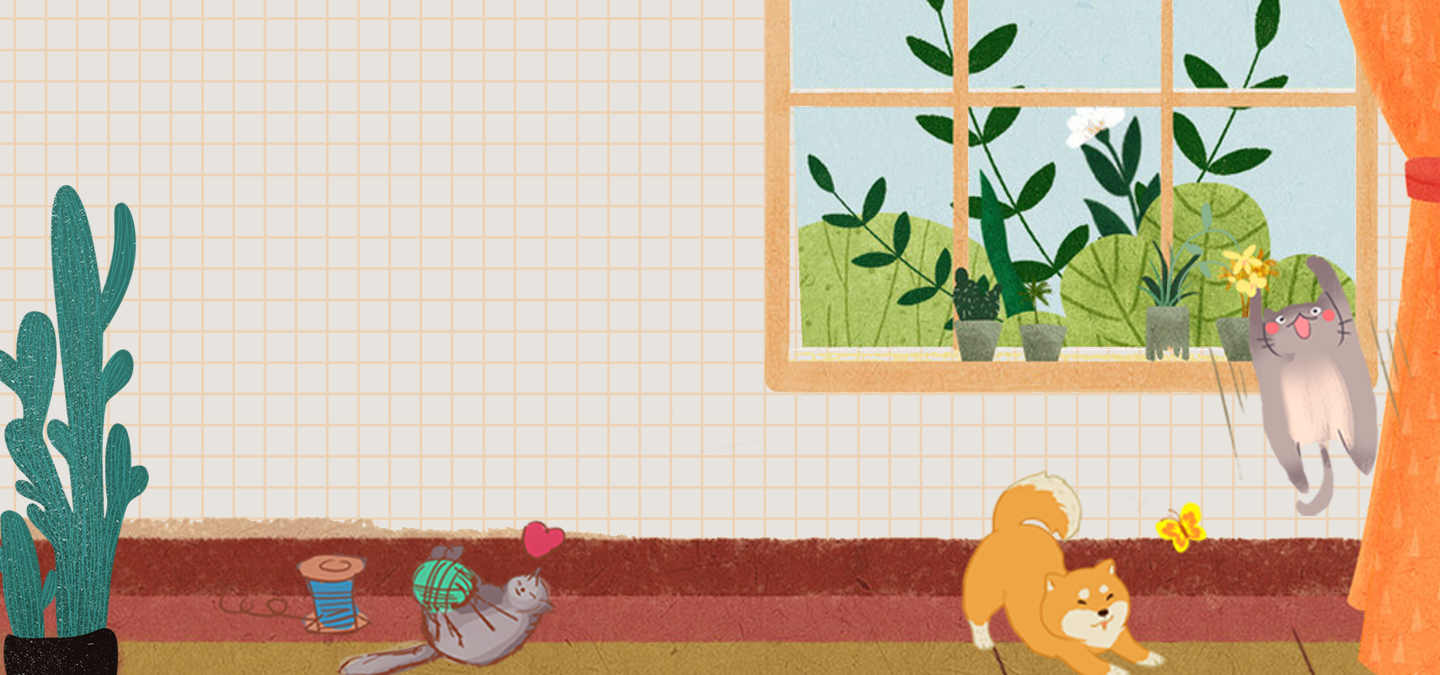
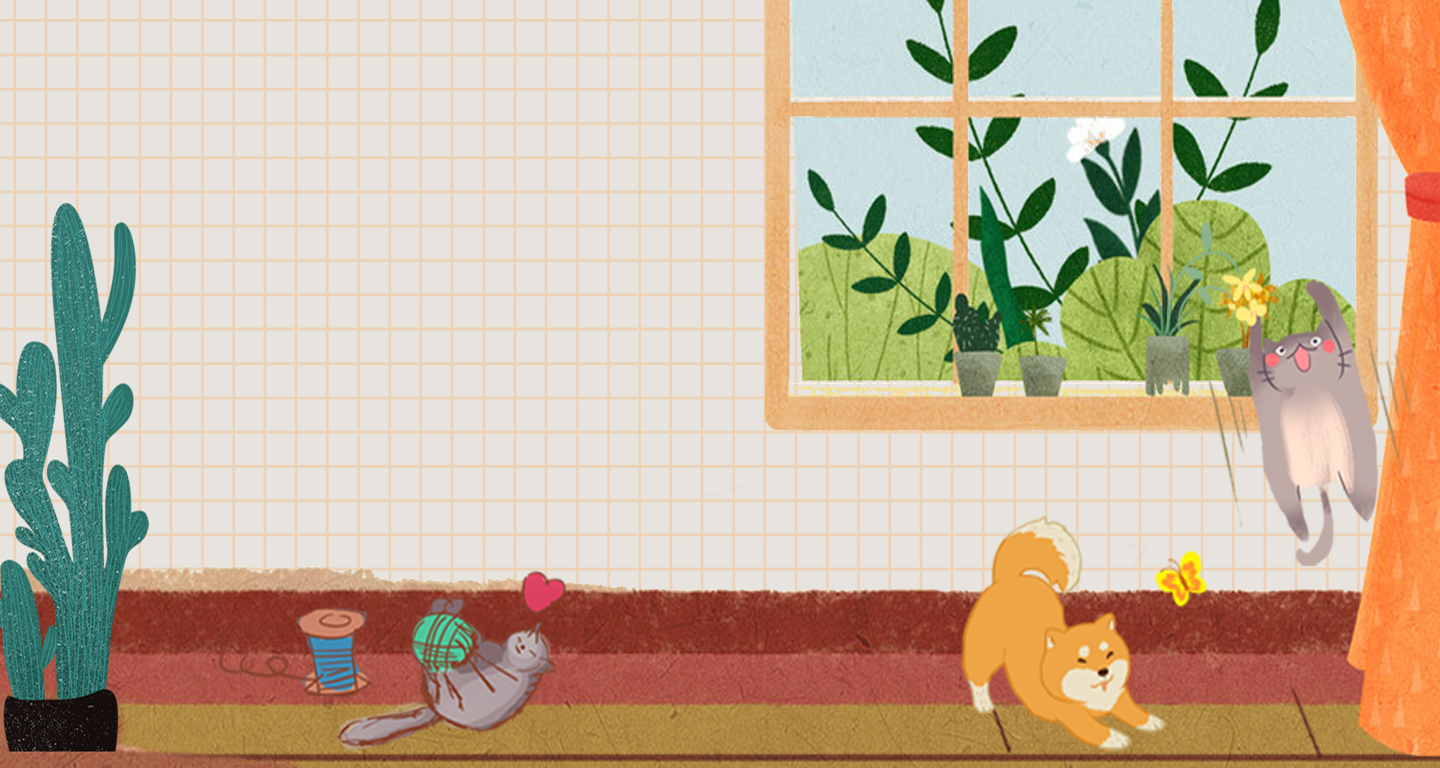
1

diff --git a/src/components/home.vue b/src/components/home.vue
@@ -124,7 +124,7 @@
                 <div class="hotbox">
                     <div @click="home_gotolog(hot.hotid)" v-for="(hot,index) in hotlist" :key="hot.key" class="hotitem">
                         <span class="hotid">{{index+1}}</span>
-                        <img  class="hotpic" :src="hot.hotpic">
+                        <img  class="hotpic" :src="hot.hotpi">
                         <div class="hottextbox">
                             <div class='hottext'>{{hot.hottext}}</div>
                         </div>
@@ -178,54 +178,55 @@ export default {
             hotlist:[
                 {
                     hotid:1,
-                    hotpic:'https://fuss10.elemecdn.com/0/6f/e35ff375812e6b0020b6b4e8f9583jpeg.jpeg',
-                    hottext:'示例文字示例文字示例文字示例文字示例文字示例文字示例文字示例文字示例文字示例文字示例文字示例文字示例文字示例文字示例文字示例文字示例文字示例文'
+                    hotpic:"",
+                    hotpic:null
                 },
                 {
                     hotid:2,
-                    hotpic:'https://fuss10.elemecdn.com/8/27/f01c15bb73e1ef3793e64e6b7bbccjpeg.jpeg',
-                    hottext:'文字示例文字示例文字示例文字示例文字示例文'
+                    hotpic:null,
+                    hottext:""
                 },
                 {
-                    hotid:1,
-                    hotpic:  'https://fuss10.elemecdn.com/1/8e/aeffeb4de74e2fde4bd74fc7b4486jpeg.jpeg',
-                    hottext:'字例文字示例文字示例文'
+                    hotid:3,
+                    hotpic:null,
+                    hottext:""
                 },
                 {
-                    hotid:2,
-                    hotpic: 'https://fuss10.elemecdn.com/a/3f/3302e58f9a181d2509f3dc0fa68b0jpeg.jpeg',
-                    hottext:'示例文字示例文字示例文字示例文字示例文字示例文字示例文字示例文字示例文字示例文字示例文字示例文字示例文字示例文字示例文字示例文字示例文字示例文'
+                    hotid:4,
+                    hotpic:null,
+                    hottext:""
                 },
                 {
-                    hotid:1,
-                    hotpic:'https://fuss10.elemecdn.com/0/6f/e35ff375812e6b0020b6b4e8f9583jpeg.jpeg',
-                    hottext:'示例文字示例文字示例文字示例文字示例文字示例文字示例文字示例文字示例文字示例文字示例文字示例文字示例文字示例文字示例文字示例文字示例文字示例文'
+                    hotid:5,
+                    hotpic:null,
+                    hottext:""
                 },
                 {
-                    hotid:1,
-                    hotpic:'https://fuss10.elemecdn.com/1/34/19aa98b1fcb2781c4fba33d850549jpeg.jpeg',
-                    hottext:'示例文字示例文字示例文字示例文字示例文字示例文字示例文字示例文字示例文字示例文字示例文字示例文字示例文字示例文字示例文字示例文字示例文字示例文'
+                    hotid:6,
+                    hotpic:null,
+                    hottext:""
                 },
                 {
-                    hotid:2,
-                    hotpic: 'https://fuss10.elemecdn.com/0/6f/e35ff375812e6b0020b6b4e8f9583jpeg.jpeg',
-                    hottext:'示例文字示例文字示例文字示例文字示例文字示例文字示例文字示例文字示例文字示例文字示例文字示例文字示例文字示例文字示例文字示例文字示例文字示例文'
+                    hotid:7,
+                    hotpic:null,
+                    hottext:""
                 },
                 {
-                    hotid:1,
-                    hotpic:'https://fuss10.elemecdn.com/9/bb/e27858e973f5d7d3904835f46abbdjpeg.jpeg',
-                    hottext:'示例文字示例文字示例文字示例文字示例文字示例文字示例文字示例文字示例文字示例文字示例文字示例文字示例文字示例文字示例文字示例文字示例文字示例文'
-                },
-                 {
-                    hotid:2,
-                    hotpic:'https://fuss10.elemecdn.com/d/e6/c4d93a3805b3ce3f323f7974e6f78jpeg.jpeg',
-                    hottext:'示例文字示例文字示例文字示例文字示例文字示例文字示例文字示例文字示例文字示例文字示例文字示例文字示例文字示例文字示例文字示例文字示例文字示例文'
+                    hotid:8,
+                    hotpic:null,
+                    hottext:""
                 },
                 {
-                    hotid:1,
-                    hotpic:'https://fuss10.elemecdn.com/3/28/bbf893f792f03a54408b3b7a7ebf0jpeg.jpeg',
-                    hottext:'示例文字示例文字示例文字示例文字示例文字示例文字示例文字示例文字示例文字示例文字示例文字示例文字示例文字示例文字示例文字示例文字示例文字示例文'
+                    hotid:9,
+                    hotpic:null,
+                    hottext:""
                 },
+                {
+                    hotid:10,
+                    hottext:"",
+                    hotpic:null,
+                },
+                
             ],
             tuijianlist_pic:[
                 {
@@ -302,6 +303,7 @@ export default {
             const _this=this
             axios.get('http://localhost:8000/gethotshare',{        
             }).then(res => {
+                const _this=this
                 console.log(res.data)
                 var i
                 for(i=0;i<10;i++){
@@ -312,7 +314,7 @@ export default {
                         jlid:res.data[i].jlid
                     }
                     }).then(res => {
-
+                        _this.hotlist[i].hotpic=res.data[0].zp
                     }).catch(err => {
                         console.log(err)
                     })

diff --git a/src/components/petlog.vue b/src/components/petlog.vue
@@ -1,8 +1,8 @@
 <template>
     <div class="logbox">
         <!-- 首栏 -->
-        <v-top></v-top>
-        <div class="logmainbox"  :style ="pic">
+        <v-top class="top"></v-top>
+        <div class="logmainbox"  >
             <div class="logcard">
                 <div class="loguserinfobox">
                     <img @click="loggotohome" class="userimag" :src="messageinform.userUrl">
@@ -45,11 +45,6 @@ export default {
         return{
             id:0,
             guanzhu:"关注",
-            pic: {
-                backgroundImage: "url(" + require('../assets/img/petshome.png') + ")",
-                width: '1440px',
-                height: '675px',
-            },
             messageinform:{
                 messagenum:0,
                 username:"",
@@ -63,6 +58,7 @@ export default {
                 isstar:"收藏",
                 photourl: [],
             },
+            ph:{}
         }
     },
     activated:function(){
@@ -437,15 +433,23 @@ body {
 }
 .logbox{
     width: 1440px;
-    height: 768px;
+    height: 700px;
     font-size: 21px;
     font-family: ZTSJ-BaguetteFont;
     font-weight: 400;
     color: #000000;
 }
 .logmainbox{
-    width: 1440px;
-    height: 675px
+    width:100%;
+    height:100%;
+    position:relative;
+    top:0px;
+    left:0;
+    right:0;
+    bottom:0;
+    background-image:url("../assets/img/petshome.png");
+    background-repeat:repeat;
+    background-attachment:fixed;
 }
 .logcard{
     width: 900px;
@@ -501,13 +505,14 @@ body {
 }
 .messageimg{
     width: 218px; 
-    height: 150px;
+    height: 140px;
     padding:1px;
     object-fit: cover;
 }
 .logfoot{
     width: 350px;
     margin-left: 520px;
+    padding-bottom: 20px;
     display: flex;
     flex-direction: row;
 }
